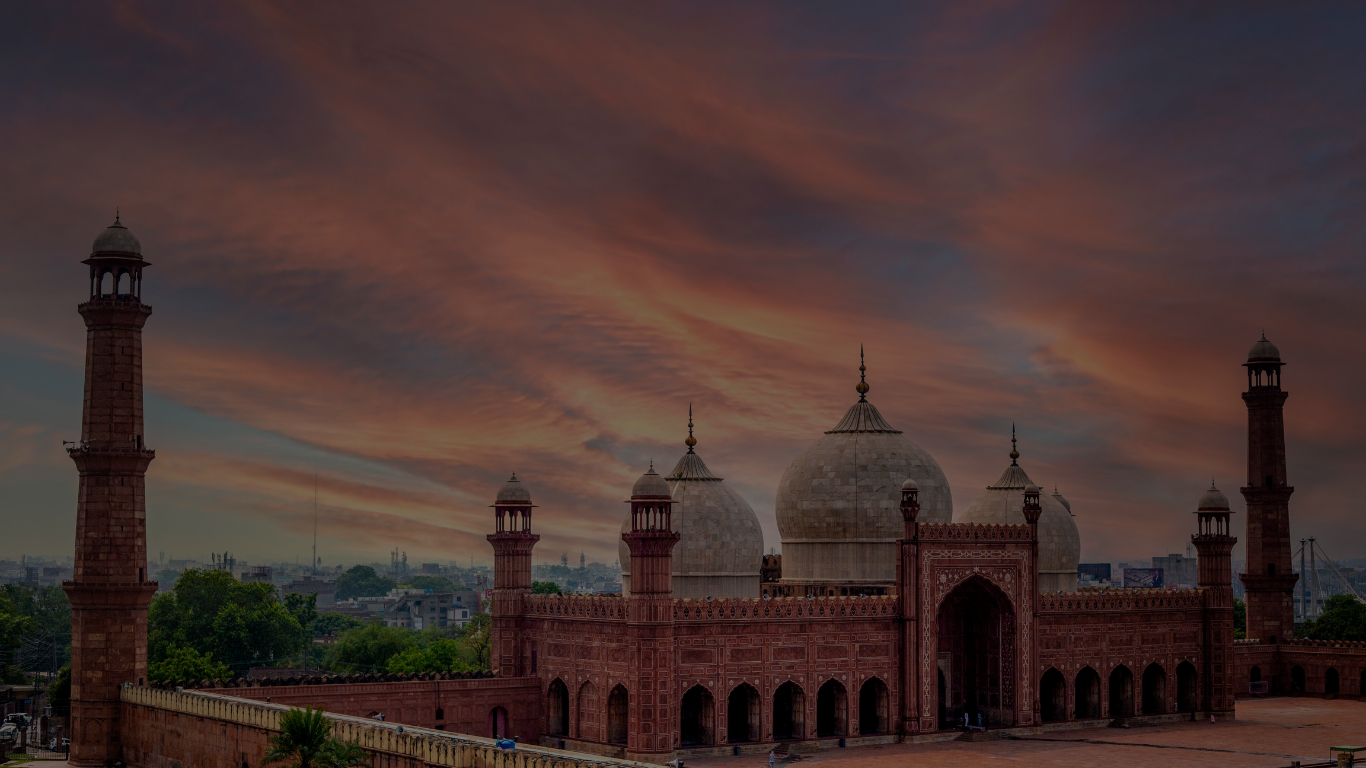
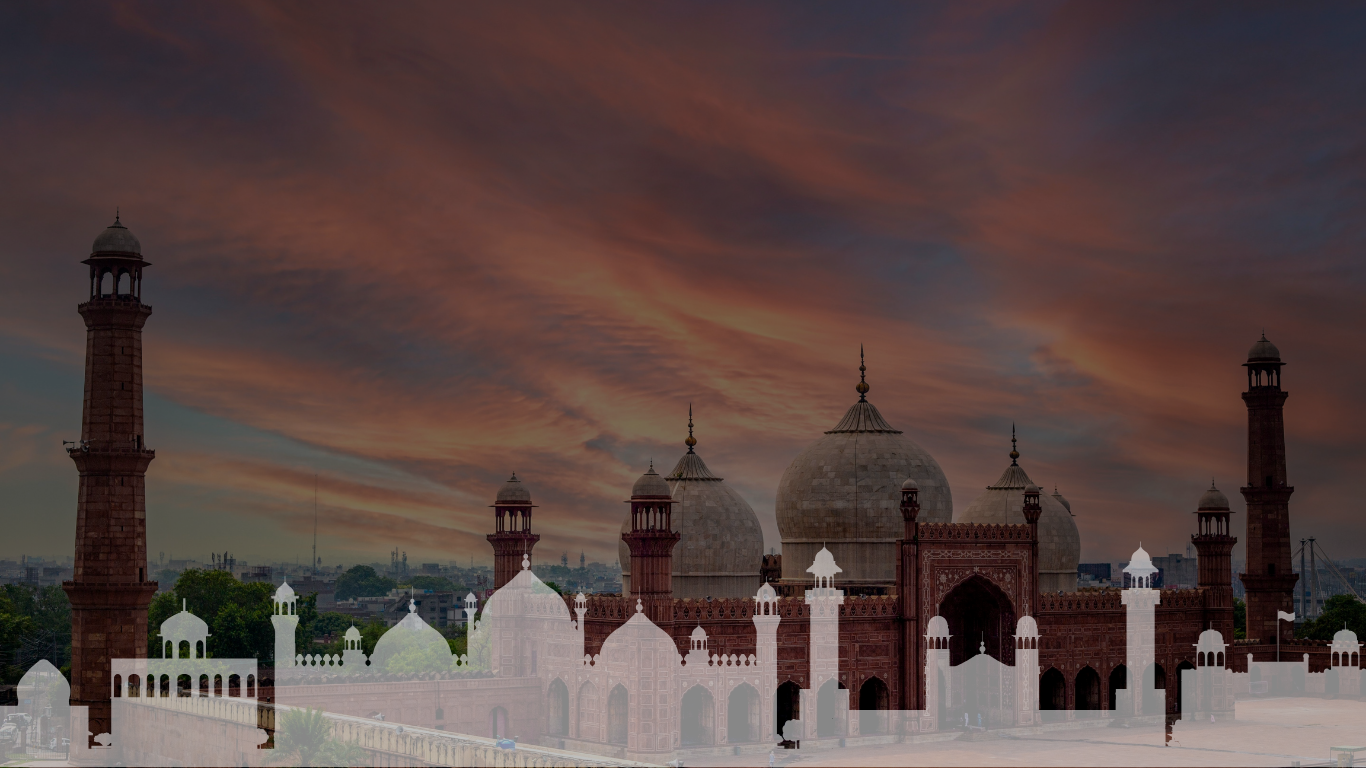
Trails section and Trail Page

Changed region(s): [[0.0, 0.7188, 1.0, 1.0], [0.9224, 0.7812, 0.9531, 0.8125]]

diff --git a/src/pages/trail/Trail.jsx b/src/pages/trail/Trail.jsx
@@ -1,0 +1,45 @@
+import React from 'react'
+import Navbar from '../../Components/Navbar'
+import { Grid, Button } from '@mui/material'
+import { trailsData } from '../../data'
+import { useParams } from 'react-router'
+import Monument from '../../assets/trail/monument.png'
+
+const Trial = () => {
+  const { trailPath } = useParams();
+  const trailData = trailsData.find(trail => trail.path === `/trail/${trailPath}`)
+  console.log(trailData)
+
+  return (
+    <>
+      <Navbar />
+      <Grid container sx={{ paddingTop: '140px', justifyContent: 'center', alignItems: 'center'  }} >
+        <Grid container sx={{maxWidth: '1200px', width: '100%', height: '80vh'}}>
+          <Grid container size={{ xs: 12, sm: 12, md: 4 }} sx={{flexDirection: 'column', justifyContent: 'center', padding: '20px'}}>
+            <h1>{trailData.name}</h1>
+            <p>{trailData.shortDescription}</p>
+          </Grid>
+          <Grid container sx={{ backgroundColor: '#1979b8', padding: '20px',}} size={{ xs: 12, sm: 12, md: 8 }} spacing={2}>
+            <Grid container size={{ xs: 12, sm: 6, md: 4 }} sx={{position: 'relative', backgroundImage: `url(${Monument})`, height: '358px', backgroundSize: 'cover',       
+    backgroundPosition: 'center', borderRadius: '20px', overflow: 'hidden', alignItems: 'flex-end', padding: '20px', color: 'white', fontSize: '25px' }}>
+              {trailData.pricing}
+            </Grid>
+            <Grid container size={{ xs: 12, sm: 6, md: 4 }} sx={{position: 'relative', backgroundImage: `url(${Monument})`, height: '358px', backgroundSize: 'cover',       
+    backgroundPosition: 'center', borderRadius: '20px', overflow: 'hidden', alignItems: 'flex-end', padding: '20px', color: 'white', fontSize: '25px' }}>
+              Partners With
+            </Grid>
+            <Grid container size={{ xs: 12, sm: 6, md: 4 }} sx={{position: 'relative', backgroundImage: `url(${Monument})`, height: '358px', backgroundSize: 'cover',     
+    backgroundPosition: 'center', borderRadius: '20px', overflow: 'hidden', alignItems: 'flex-end', padding: '20px', color: 'white', fontSize: '25px' }}>
+              Map view showing trail route
+            </Grid>
+            <Grid container xs={12} lg={12} sx={{height: 'object-fit', width: '100%', alignSelf: 'flex-end', justifyContent: 'flex-end'}}>
+              <Button variant="contained" sx={{backgroundColor: 'white', color: 'black', borderRadius: '20px'}}>BOOK NOW</Button>
+            </Grid>
+          </Grid>
+        </Grid>
+      </Grid>
+    </>
+  )
+}
+
+export default Trial

diff --git a/src/pages/trails/sections/Trail.jsx b/src/pages/trails/sections/Trail.jsx
@@ -1,0 +1,40 @@
+import React, { useEffect } from 'react'
+import Grid from '@mui/material/Grid';
+import { useMediaQuery, Button } from '@mui/material';
+import { trailsData } from '../../../data';
+import { Link } from 'react-router';
+
+const AboutUs = () => {
+  const isSmallScreen = useMediaQuery('(max-width: 470px)');
+
+  return (
+    <Grid container sx={{ minHeight: '100vh', padding: '150px 20px 150px 20px', display: 'flex', justifyContent: 'space-between', maxWidth: '1200px', alignItems: 'center' }} spacing={6} >
+      <Grid container sx={{ marginTop: '0px', justifyContent: 'center', paddingTop: '70px' }}>
+            <Grid>
+                {trailsData.map((trail, index) => {
+                    const isEven = index % 2 === 0;
+                    return (
+                        <Grid container sx={{ maxWidth: '1200px', gap: '0', flexDirection: isEven ? 'row' : 'row-reverse', flexWrap: 'wrap-reverse' }} key={index}>
+                            <Grid item size={{ xs: 12, md: 6 }} sx={{ display: 'flex', flexDirection: 'column', justifyContent: 'center', padding: '20px', ...(isSmallScreen && { paddingTop: '0px' }) }}>
+                                <h3 style={{ marginBottom: isSmallScreen ? '25px' : '0px', fontSize: '25px', fontFamily: "Times New Roman"}}>{trail.name}</h3>
+                                <p style={{ fontSize: '20px', ...(isSmallScreen && { marginTop: '0px' }) }}>{trail.shortDescription}</p>
+                                <Button variant="contained" component={Link} to={trail.path} sx={{width: 'fit-content', borderRadius: '25px', backgroundColor: 'black'}}>view trail</Button>
+                            </Grid>
+
+                            <Grid item size={{ xs: 12, md: 6 }}>
+                                <img
+                                    src={trail.image}
+                                    alt={trail.name}
+                                    style={{ width: '100%', boxSizing: 'border-box', height: '100%', padding: isSmallScreen ? '20px' : '0px' }}
+                                />
+                            </Grid>
+                        </Grid>
+                    );
+                })}
+            </Grid>
+        </Grid>
+    </Grid>
+  )
+}
+
+export default AboutUs

diff --git a/src/pages/trails/sections/Hero.jsx b/src/pages/trails/sections/Hero.jsx
@@ -1,0 +1,31 @@
+import React, { useEffect, useState, useRef } from 'react'
+import Grid from '@mui/material/Grid';
+import LandingSectionBackground from '../../../assets/backgrounds/landingSectionBackground.mp4'
+import { useMediaQuery } from '@mui/material';
+import landingSectionBackgroundPoster from '../../../assets/backgrounds/landingSectionBackgroundPoster.jpg'
+import { motion, useScroll, useTransform } from "framer-motion";
+
+const Hero = ({scrollY}) => {
+  const isMobileScreen = useMediaQuery('(max-width: 470px)')
+  const heroRef = useRef(null)
+  const [vh, setVh] = useState(window.innerHeight);
+  const y1 = useTransform(scrollY, [0, vh], [0, -1 * vh]); 
+  
+  return (
+    <motion.div style={{ y: y1}}>
+      <Grid sx={{ position: 'absolute', zIndex: 1, right: 0, width: '100%', backgroundImage: `url(${landingSectionBackgroundPoster})` }} ref={heroRef}>
+        <Grid container sx={{ overflow: 'hidden', height: '100vh', position: 'relative' }}>
+          <Grid item sx={{ overflow: 'hidden', display: 'flex', justifyContent: 'center', position: 'absolute', zIndex: '-1', width: '100%', height: '100%' }}>
+            <video src={LandingSectionBackground} autoPlay loop muted style={{ width: '100%', minWidth: '1400px', objectFit: 'cover' }} poster={landingSectionBackgroundPoster} ></video>
+          </Grid>
+          <Grid sx={{ height: '100%', width: '100%', display: 'flex', justifyContent: 'flex-end', alignItems: 'flex-start', color: 'white', padding: !isMobileScreen ? '20px 40px' : '20px 20px', flexDirection: 'column' }}>
+            <h1 style={{ letterSpacing: '4px', fontWeight: '100', fontSize: !isMobileScreen ? '80px' : '55px', marginBottom: '0px' }}>TRAILS</h1>
+            <p style={{ letterSpacing: '0px', fontWeight: '500', fontSize: !isMobileScreen ? '30px' : '25px', marginTop: '0px', fontFamily: 'Montserrat', }}>Walk Through History. Experience Culture.</p>
+          </Grid>
+        </Grid>
+      </Grid>
+    </motion.div>
+  )
+}
+
+export default Hero

diff --git a/src/pages/home/sections/GetInTouch2.jsx b/src/pages/home/sections/GetInTouch2.jsx
@@ -4,7 +4,6 @@ import getInTouchBackground from '../../../assets/backgrounds/GetInTouch2Backgro
 import InstagramIcon from '@mui/icons-material/Instagram';
 import { FaFacebook } from "react-icons/fa";
 import { IoLogoTiktok } from "react-icons/io5";
-import footerBackground from '../../../assets/backgrounds/footerBackground.png'
 
 const GetInTouch2 = () => {
     const [formData, setFormData] = useState({
@@ -46,7 +45,7 @@ const GetInTouch2 = () => {
 
     return (
         <Grid container sx={{ marginTop: '100px', justifyContent: 'center', backgroundImage: `url(${getInTouchBackground})`, backgroundRepeat: 'no-repeat', backgroundSize: 'cover', backgroundPosition: 'center bottom', position: 'relative', overflow: 'hidden' }}>
-            <Grid container sx={{ width: '100%', maxWidth: '1200px', padding: '70px 20px 250px 20px', zIndex: 10 }} >
+            <Grid container sx={{ width: '100%', maxWidth: '1200px', padding: '70px 20px 320px 20px', zIndex: 10 }} >
                 <Grid size={{ xs: 12, sm: 12, md: 6 }}>
                     <Grid sx={{ backgroundColor: '#52576d', width: 'auto', display: 'inline-block', padding: '0px 30px', borderRadius: '20px' }}>
                         <h1 style={{ fontWeight: '100', color: 'white' }}>GET IN TOUCH</h1>
@@ -171,9 +170,6 @@ const GetInTouch2 = () => {
                         </Grid>
                     </Grid>
                 </Grid>
-            </Grid>
-            <Grid container sx={{position: 'absolute', width: '100%', bottom: 0, alignItems: 'flex-end', zIndex: 1, minWidth: '1430px' }}>
-                <img src={footerBackground} alt="" style={{width: '100%'}} />
             </Grid>
         </Grid>
     )

diff --git a/src/data.js b/src/data.js
@@ -165,4 +165,36 @@ const collaboratorsData = [
     },
 ]
 
-export {foundersData, servicesData, projectsData, heritageData, feedbackData, collaboratorsData}
+// trails data
+const trailsData = [
+    {
+        name: 'Trail 1',
+        image: project1Image,
+        shortDescription: 'Masjid Wazir Khan is a historic Mughal-era mosque in Lahore, known for its vibrant tilework and beauty.',
+        path: '/trail/trail1Name',
+        pricing: '10000 - 20000'
+    },
+    {
+        name: 'Trail 2',
+        image: project2Image,
+        shortDescription: 'Masjid Wazir Khan is a historic Mughal-era mosque in Lahore, known for its vibrant tilework and beauty.',
+        path: '/trail/trail2Name',
+        pricing: '10000 - 20000'
+    },
+    {
+        name: 'Trail 3',
+        image: project1Image,
+        shortDescription: 'Masjid Wazir Khan is a historic Mughal-era mosque in Lahore, known for its vibrant tilework and beauty.',
+        path: '/trail/trail3Name',
+        pricing: '10000 - 20000'
+    },
+    {
+        name: 'Trail 4',
+        image: project2Image,
+        shortDescription: 'Masjid Wazir Khan is a historic Mughal-era mosque in Lahore, known for its vibrant tilework and beauty.',
+        path: '/trail/trail4Name',
+        pricing: '10000 - 20000'
+    },
+]
+
+export {foundersData, servicesData, projectsData, heritageData, feedbackData, collaboratorsData, trailsData}

diff --git a/src/Routes.jsx b/src/Routes.jsx
@@ -3,14 +3,18 @@ import { Routes, Route, Navigate } from "react-router";
 import Home from './pages/home/Home';
 import Service from './pages/service/Service'
 import Heritage from './pages/heritage/Heritage';
+import Trails from './pages/trails/Trails';
+import Trail from './pages/trail/Trail'
 
 const Router = () => {
   return (
     <Routes>
       <Route path="/" element={<Navigate to="/home" replace />} />
       <Route path="/home" element={<Home />} />
+      <Route path="/trails" element={<Trails />} />
       <Route path="/service/:servicePath" element={<Service />} />
       <Route path="/heritage/:heritagePath" element={<Heritage />} />
+      <Route path='/trail/:trailPath' element={<Trail />} />
     </Routes>
   )
 }

diff --git a/src/pages/trails/Trails.jsx b/src/pages/trails/Trails.jsx
@@ -1,0 +1,22 @@
+import React from 'react'
+import Navbar from '../../Components/Navbar'
+import { Grid } from '@mui/material';
+import { useScroll } from 'framer-motion';
+import Hero from './sections/Hero'
+import Trail from './sections/Trail'
+
+const Trails = () => {
+    const { scrollY } = useScroll(); 
+
+    return (
+        <>
+            <Navbar scrollY={scrollY} />
+            <Hero scrollY={scrollY} />
+            <Grid sx={{ paddingTop: '50vh', display: 'flex', justifyContent: 'center' }}>
+                <Trail />
+            </Grid>
+        </>
+    )
+}
+
+export default Trails
